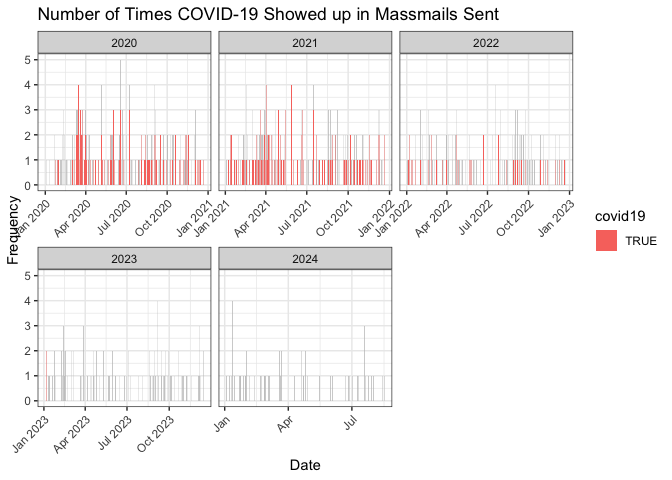
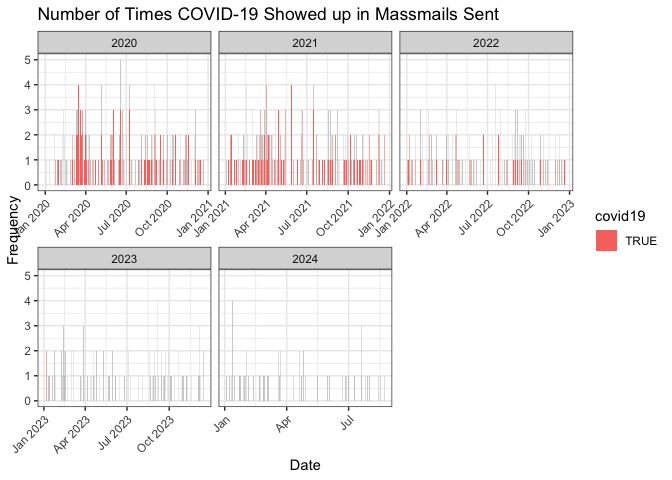
Re-build README.Rmd and Graphs

Changed region(s): [[0.3438, 0.7188, 0.5938, 0.9062], [0.4062, 0.875, 0.4375, 0.9062]]

diff --git a/README.md b/README.md
@@ -17,7 +17,7 @@ The archive may be viewed here:
 
 <https://massmail.illinois.edu/massmailArchive>
 
-Data has **778** observations and **7** variables:
+Data has **779** observations and **7** variables:
 
 - `datetime`: Date and time when the email was sent in the form of
   `YYYY-MM-DD HMS` with either CDT or CST.
@@ -210,14 +210,14 @@ head(most_popular_words, 10) %>%
 
 | word       | freq |
 |:-----------|-----:|
-| university | 2199 |
-| students   | 1836 |
-| campus     | 1635 |
-| illinois   | 1473 |
+| university | 2207 |
+| students   | 1837 |
+| campus     | 1640 |
+| illinois   | 1477 |
 | student    | 1078 |
 | covid      | 1070 |
-| faculty    | 1060 |
-| community  | 1006 |
+| faculty    | 1061 |
+| community  | 1009 |
 | health     | 1001 |
 | staff      |  906 |
 
